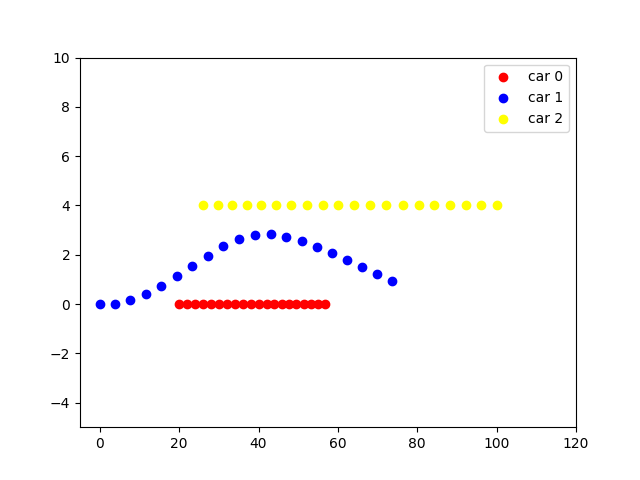
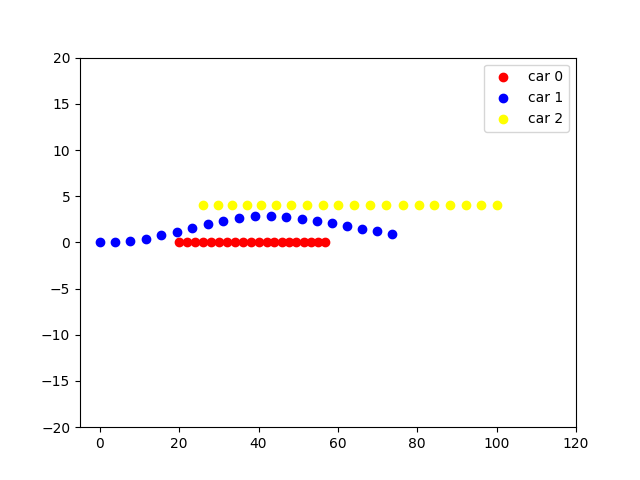
Get the reason why it accelerates first. This is because when it accelerates first, for two points in the middel, they both satisfy the distance constraint, but in the middle, they might not satisfy that.

diff --git a/CFS_planner.py b/CFS_planner.py
@@ -115,7 +115,7 @@ def path_rendering(pathnew, num):
             x[j] = car_path[j][i, 0]
             y[j] = car_path[j][i, 1]
             plt.xlim(-5, 120)
-            plt.ylim(-5, 10)
+            plt.ylim(-20, 20)
             plt.scatter(x[j], y[j], marker = 'o', color = COLOR[j])
             plot_legend.append('car {}'.format(j))
         plt.legend(plot_legend, loc = 'upper right')
@@ -250,6 +250,7 @@ def main():
     num_cars = 3
     dt = 0.2
     multi_path = define_path(dt)
+
     pathnew = Plan_trajectory(MAX_ITER, multi_path, 3)
     
     nstep = int(pathnew.shape[0] / (num_cars*2))
@@ -260,10 +261,17 @@ def main():
     pathnew2[:, 0] = pathnew[4 : : 6]
     pathnew2[:, 1] = pathnew[5 : : 6]
     # print(pathnew1[0, :], pathnew2[0, :])
-    distance = two_car_distance(pathnew1, pathnew2)
-    # path_rendering(pathnew, num_cars)
+    # distance = two_car_distance(pathnew1, pathnew2)
     
-    vel = get_velocity(pathnew2, dt)
+
+    # Get original car 3's trajectory
+    ori_path3 = multi_path[-1]
+    distance = two_car_distance(pathnew1, ori_path3)
+    print(distance, np.argmin(distance))
+    # print(ori_path3)
+
+    # path_rendering(pathnew, num_cars)
+    # vel = get_velocity(pathnew2, dt)
     # print(sum(vel)/len(vel))
     # print(vel)
     
